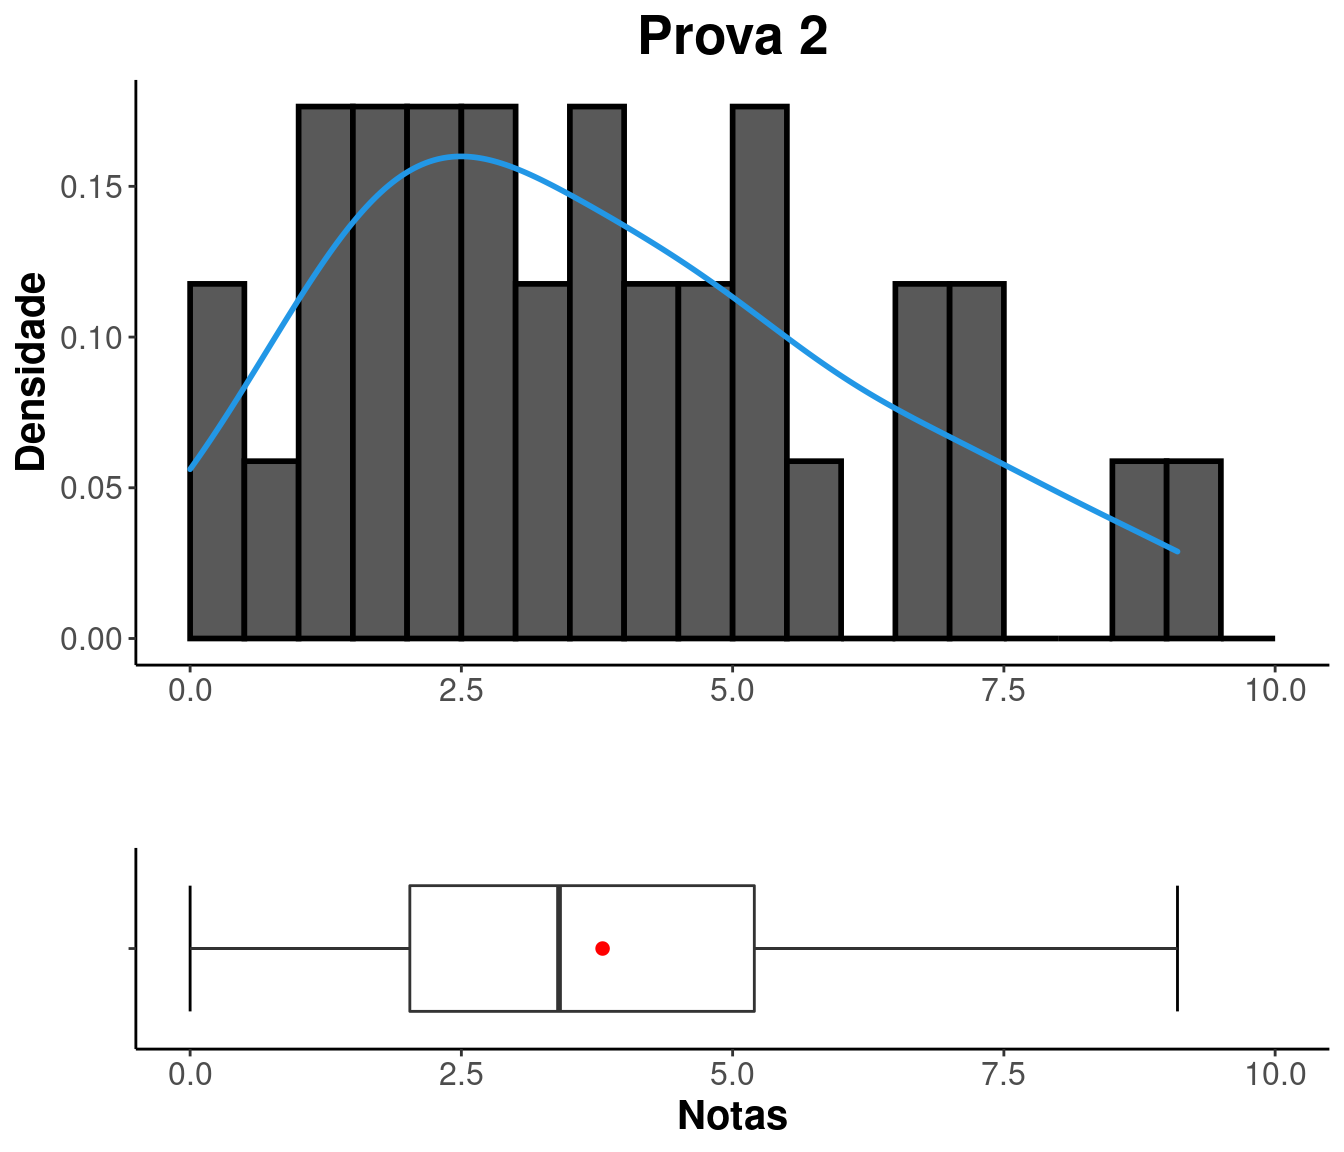
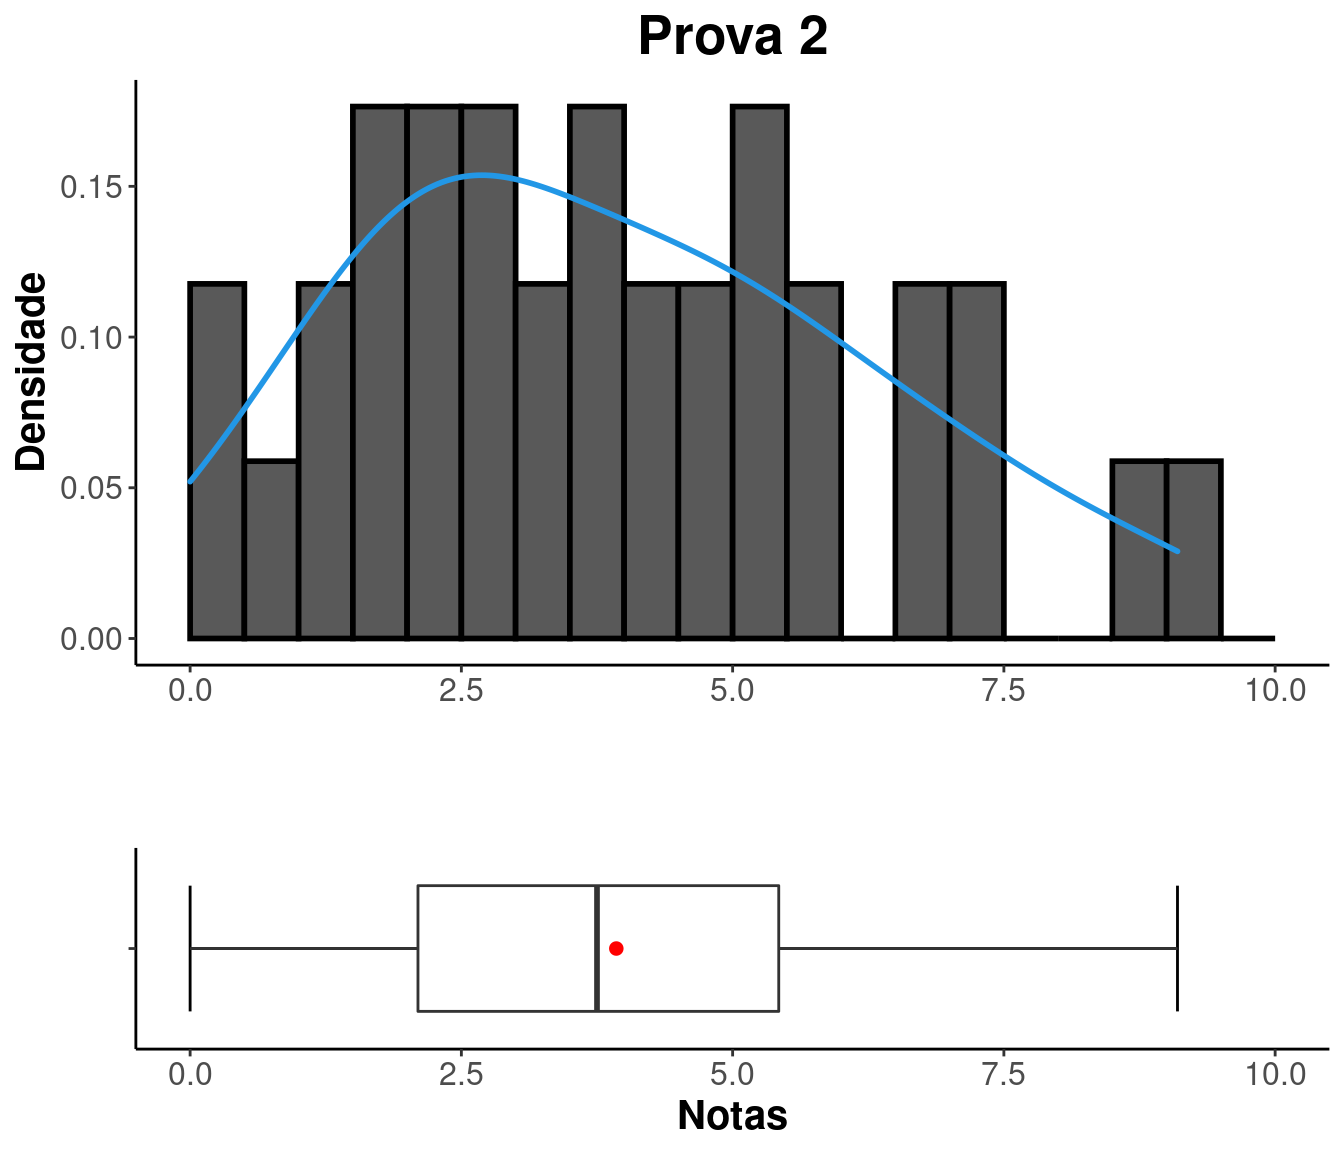
corrige notas

diff --git a/notas.html b/notas.html
@@ -302,8 +302,8 @@ $(document).ready(function () {
 <p>Busque sua situação digitando seu GRR na caixa “Search”.</p>
 <p><br />
 </p>
-<div id="htmlwidget-49c5bba630e0d6bda022" style="width:100%;height:auto;" class="datatables html-widget"></div>
-<script type="application/json" data-for="htmlwidget-49c5bba630e0d6bda022">{"x":{"filter":"none","vertical":false,"editable":{"target":"cell","disable":{"columns":null},"numeric":[1,2,3],"area":[]},"data":[["GRR20182666","GRR20222157","GRR20224231","GRR20222161","GRR20215807","GRR20210361","GRR20173235","GRR20212937","GRR20213825","GRR2022159","GRR20224216","GRR20212891","GRR20220385","GRR20224212","GRR20222151","GRR20224913","GRR20224912","GRR20212978","GRR20222165","GRR20202359","GRR20224220","GRR20220395","GRR20207140","GRR20222164","GRR20224907","GRR20133223","GRR20205597","GRR20222059","GRR20200165","GRR20223472","GRR20223951","GRR20220370","GRR20203430","GRR20222142","GRR20215605","GRR20212968","GRR20221911","GRR20220367"],[7.9,6.8,6,5.9,null,4.6,5.7,6.6,7,5.8,5.5,6,null,7.3,6.7,7.6,6.9,8.2,6.4,null,3.4,3.7,null,8.3,5.4,4.5,6.4,6.2,5.6,7,6,5.5,3,5,8.5,7.7,3.6,5.6],[9.1,2.7,5.5,3.6,null,1.65,4,4.7,3.2,2.8,4.1,5.9,null,1.4,2.6,3.9,7,8.6,3.2,null,0.6,4.2,null,6.6,7.1,2,2.1,4.9,5.2,2.5,1.8,1.5,2.1,1.5,7.5,5.2,0,0.5],[47.16,64.88,53.57,77.05,0,28.63,22.61,63.46,45.4,74.02,48.73,21.71,0,59.57,57.55,58.69,66.31,81.31,46.77,0,45.1,43.83,0,57.45,67.79,25.72,53.63,48.5,77.28,33.39,44.98,59.38,19.78,58.13,49.87,60.62,40.16,57]],"container":"<table class=\"cell-border stripe\">\n  <thead>\n    <tr>\n      <th>GRR<\/th>\n      <th>P1<\/th>\n      <th>P2<\/th>\n      <th>SOMA_REMOTAS<\/th>\n    <\/tr>\n  <\/thead>\n<\/table>","options":{"columnDefs":[{"className":"dt-right","targets":[1,2,3]}],"order":[],"autoWidth":false,"orderClasses":false}},"evals":[],"jsHooks":[]}</script>
+<div id="htmlwidget-89092a53127049dbf2f8" style="width:100%;height:auto;" class="datatables html-widget"></div>
+<script type="application/json" data-for="htmlwidget-89092a53127049dbf2f8">{"x":{"filter":"none","vertical":false,"editable":{"target":"cell","disable":{"columns":null},"numeric":[1,2,3],"area":[]},"data":[["GRR20182666","GRR20222157","GRR20224231","GRR20222161","GRR20215807","GRR20210361","GRR20173235","GRR20212937","GRR20213825","GRR2022159","GRR20224216","GRR20212891","GRR20220385","GRR20224212","GRR20222151","GRR20224913","GRR20224912","GRR20212978","GRR20222165","GRR20202359","GRR20224220","GRR20220395","GRR20207140","GRR20222164","GRR20224907","GRR20133223","GRR20205597","GRR20222059","GRR20200165","GRR20223472","GRR20223951","GRR20220370","GRR20203430","GRR20222142","GRR20215605","GRR20212968","GRR20221911","GRR20220367"],[7.9,6.8,6,5.9,null,4.6,5.7,6.6,7,5.8,5.5,6,null,7.3,6.7,7.6,6.9,8.2,6.4,null,3.4,3.7,null,8.3,5.4,4.5,6.4,6.2,5.6,7,6,5.5,3,5,8.5,7.7,3.6,5.6],[9.1,2.7,5.5,3.6,null,1.65,4,4.7,3.2,2.8,4.1,5.9,null,1.4,2.6,3.9,7,8.6,3.2,null,0.6,4.2,null,6.6,7.1,2,2.1,4.9,5.2,2.5,1.8,5.8,2.1,1.5,7.5,5.2,0,0.5],[47.16,64.88,53.57,77.05,0,28.63,22.61,63.46,45.4,74.02,48.73,21.71,0,59.57,57.55,58.69,66.31,81.31,46.77,0,45.1,43.83,0,57.45,67.79,25.72,53.63,48.5,77.28,33.39,44.98,59.38,19.78,58.13,49.87,60.62,40.16,57]],"container":"<table class=\"cell-border stripe\">\n  <thead>\n    <tr>\n      <th>GRR<\/th>\n      <th>P1<\/th>\n      <th>P2<\/th>\n      <th>SOMA_REMOTAS<\/th>\n    <\/tr>\n  <\/thead>\n<\/table>","options":{"columnDefs":[{"className":"dt-right","targets":[1,2,3]}],"order":[],"autoWidth":false,"orderClasses":false}},"evals":[],"jsHooks":[]}</script>
 <hr />
 </div>
 <div id="análise-das-notas"
@@ -372,10 +372,10 @@ class="section level1 tabset tabset-fade tabset-pills">
 <tbody>
 <tr class="odd">
 <td align="center">0</td>
-<td align="center">2.025</td>
-<td align="center">3.801</td>
-<td align="center">3.4</td>
-<td align="center">5.2</td>
+<td align="center">2.1</td>
+<td align="center">3.928</td>
+<td align="center">3.75</td>
+<td align="center">5.425</td>
 <td align="center">9.1</td>
 </tr>
 </tbody>
